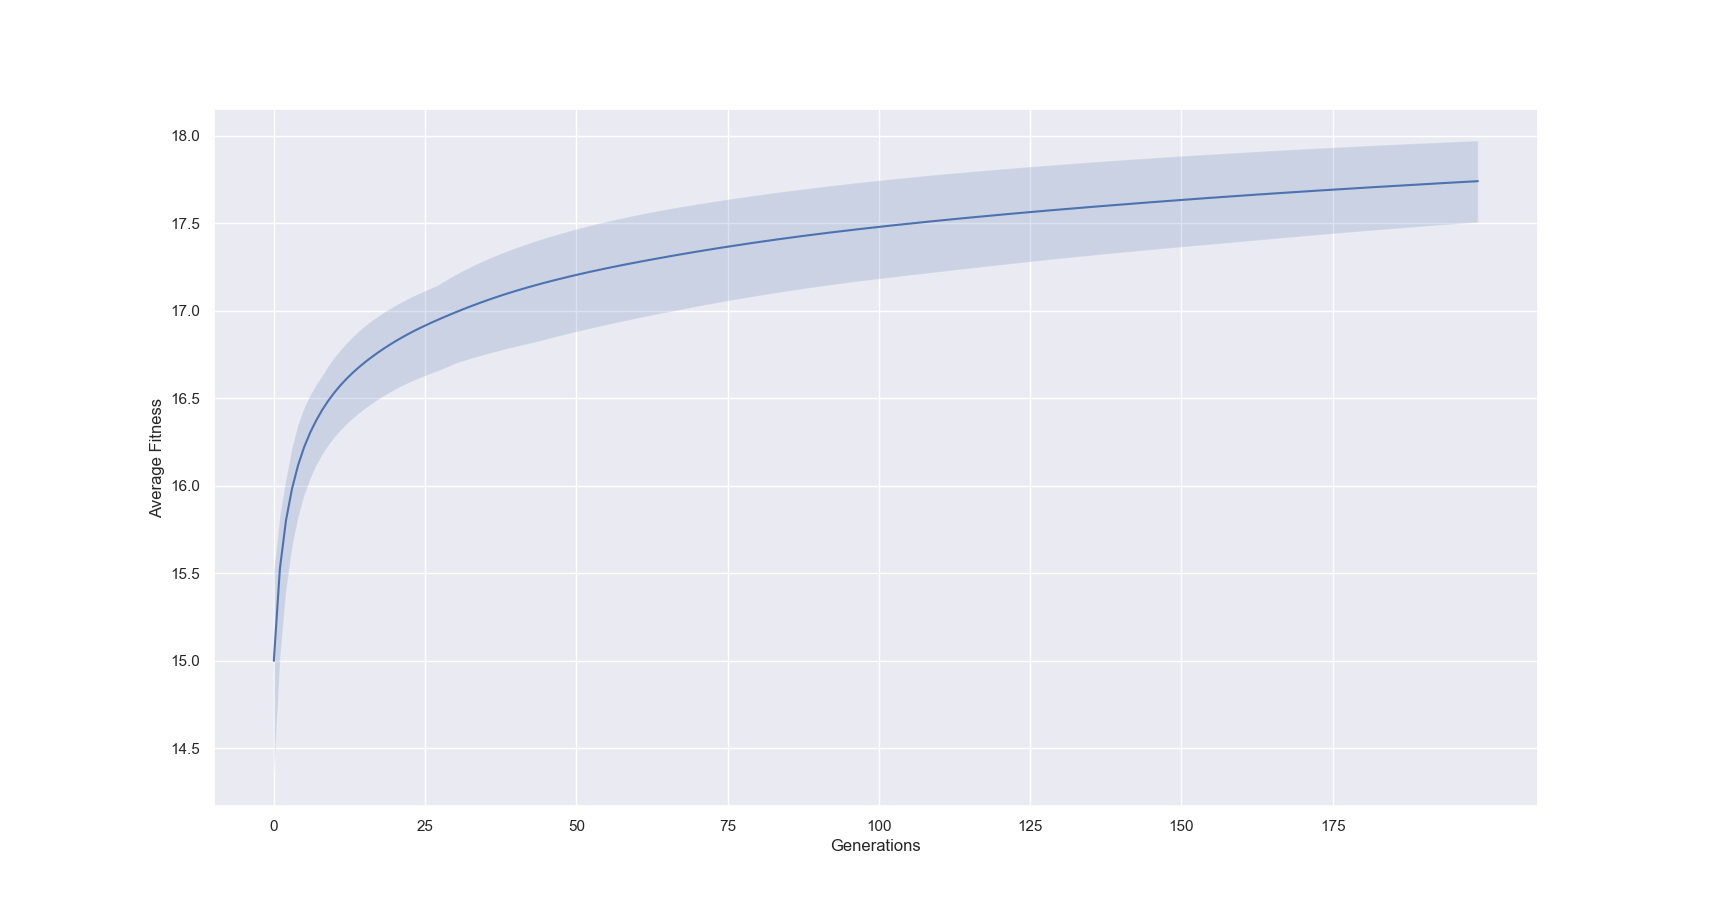
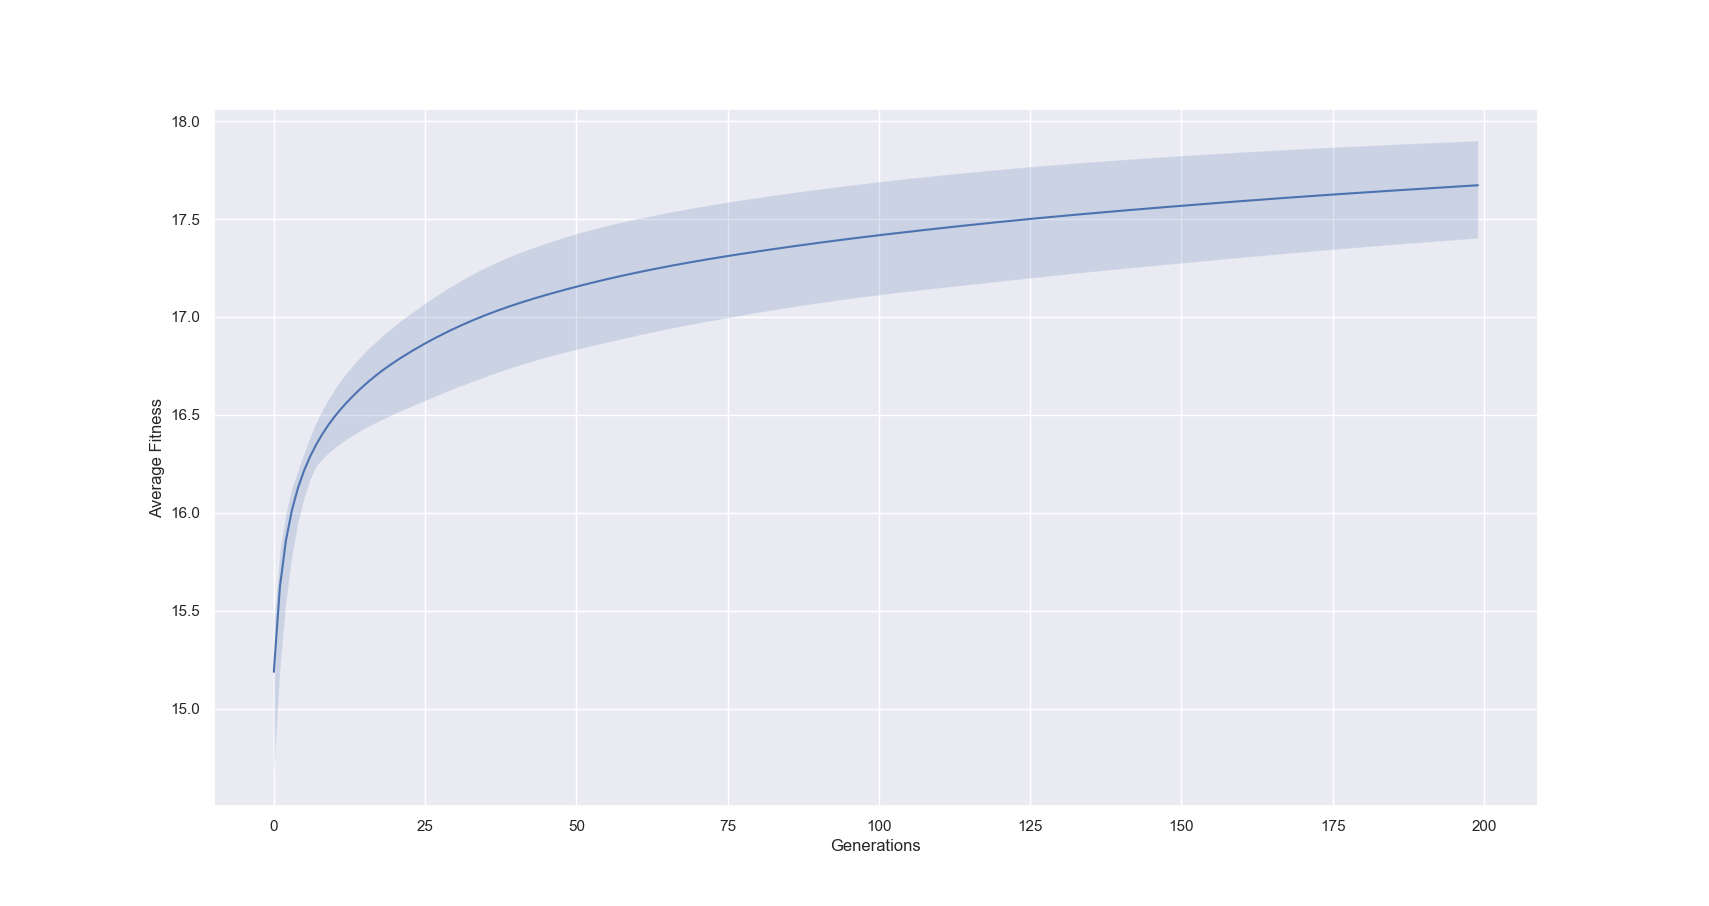
results added

diff --git a/visualize.py b/visualize.py
@@ -71,12 +71,13 @@ def avg_fitness():
     df.loc['mean'] = df.mean()
     df.loc['min'] = df.min()
     df.loc['max'] = df.max()
+    print(df.loc['mean'].max())
     fig, ax = plt.subplots(figsize =(20,20))
     ax.plot(df.columns,df.loc['mean'])
     ax.fill_between(df.columns, df.loc['min'], df.loc['max'], alpha=0.2)
     ax.set_xlabel('Generations')
     ax.set_ylabel('Average Fitness')
-    plt.xticks(np.arange(min(df.columns), 1025, 25.0))
+    plt.xticks(np.arange(min(df.columns), 225, 25.0))
     plt.show()
     #print(df)
 

diff --git a/main.py b/main.py
@@ -13,7 +13,7 @@ max_BW = 0
 n_iter = util.n_iter
 population_size = 50
 mut_prob = 0.1
-recomb_prob = 0.9
+recomb_prob = 0.1
 pop_avg = 0
 pop_sum = 0
 histories = []
